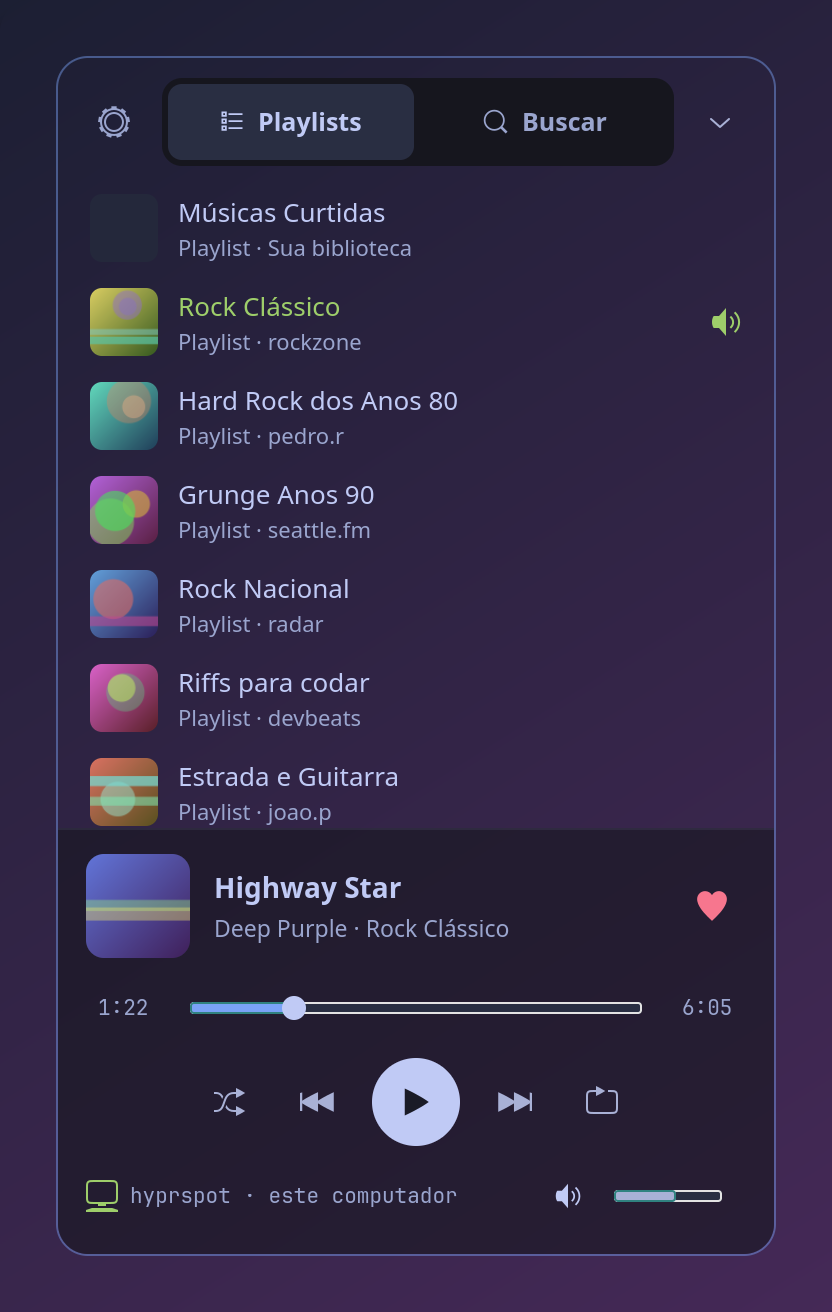
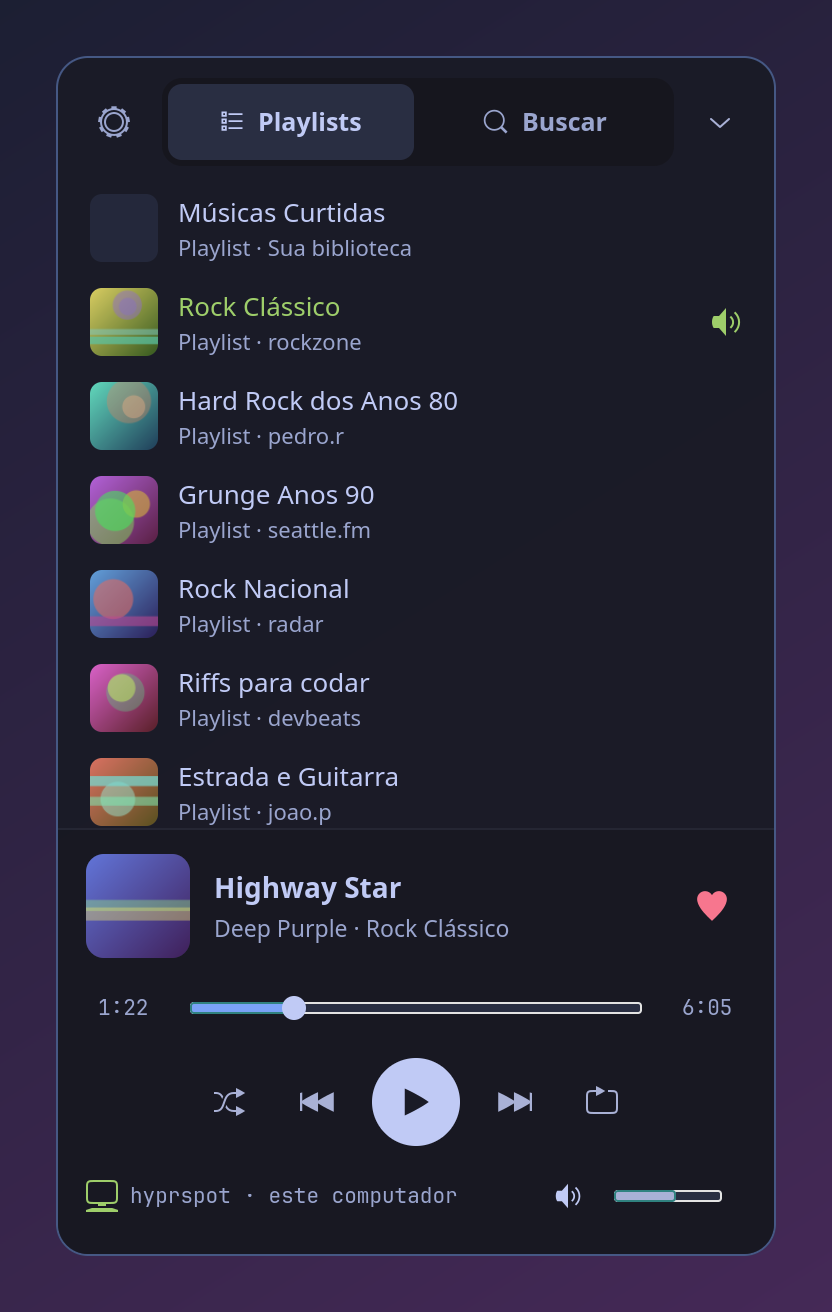
docs: capturas com o fundo do cartão de volta
O script punha o widget direto na janela, e a regra "window.hs-window > *"
do style.css (que deixa transparente a caixa que o app põe ali) apagava o
fundo do cartão: as capturas mostravam o degradê através da lista. Agora o
widget fica dentro de uma caixa, como no app. Era só nas capturas.

Changed region(s): [[0.0625, 0.125, 0.9375, 0.6562]]

diff --git a/scripts/make_screenshots.py b/scripts/make_screenshots.py
@@ -171,7 +171,11 @@ def as_layer(win: Gtk.Window) -> Gtk.Window:
 def host(child: Gtk.Widget, title: str) -> Gtk.Window:
     win = as_layer(Gtk.Window(title=title, decorated=False))
     win.add_css_class("hs-window")
-    win.set_child(child)
+    # como no app (ui/window.py): o filho direto da janela é uma caixa transparente
+    # ("window.hs-window > *" no style.css); o widget dentro dela mantém o fundo do cartão
+    box = Gtk.Box()
+    box.append(child)
+    win.set_child(box)
     win.present()
     return win
 
